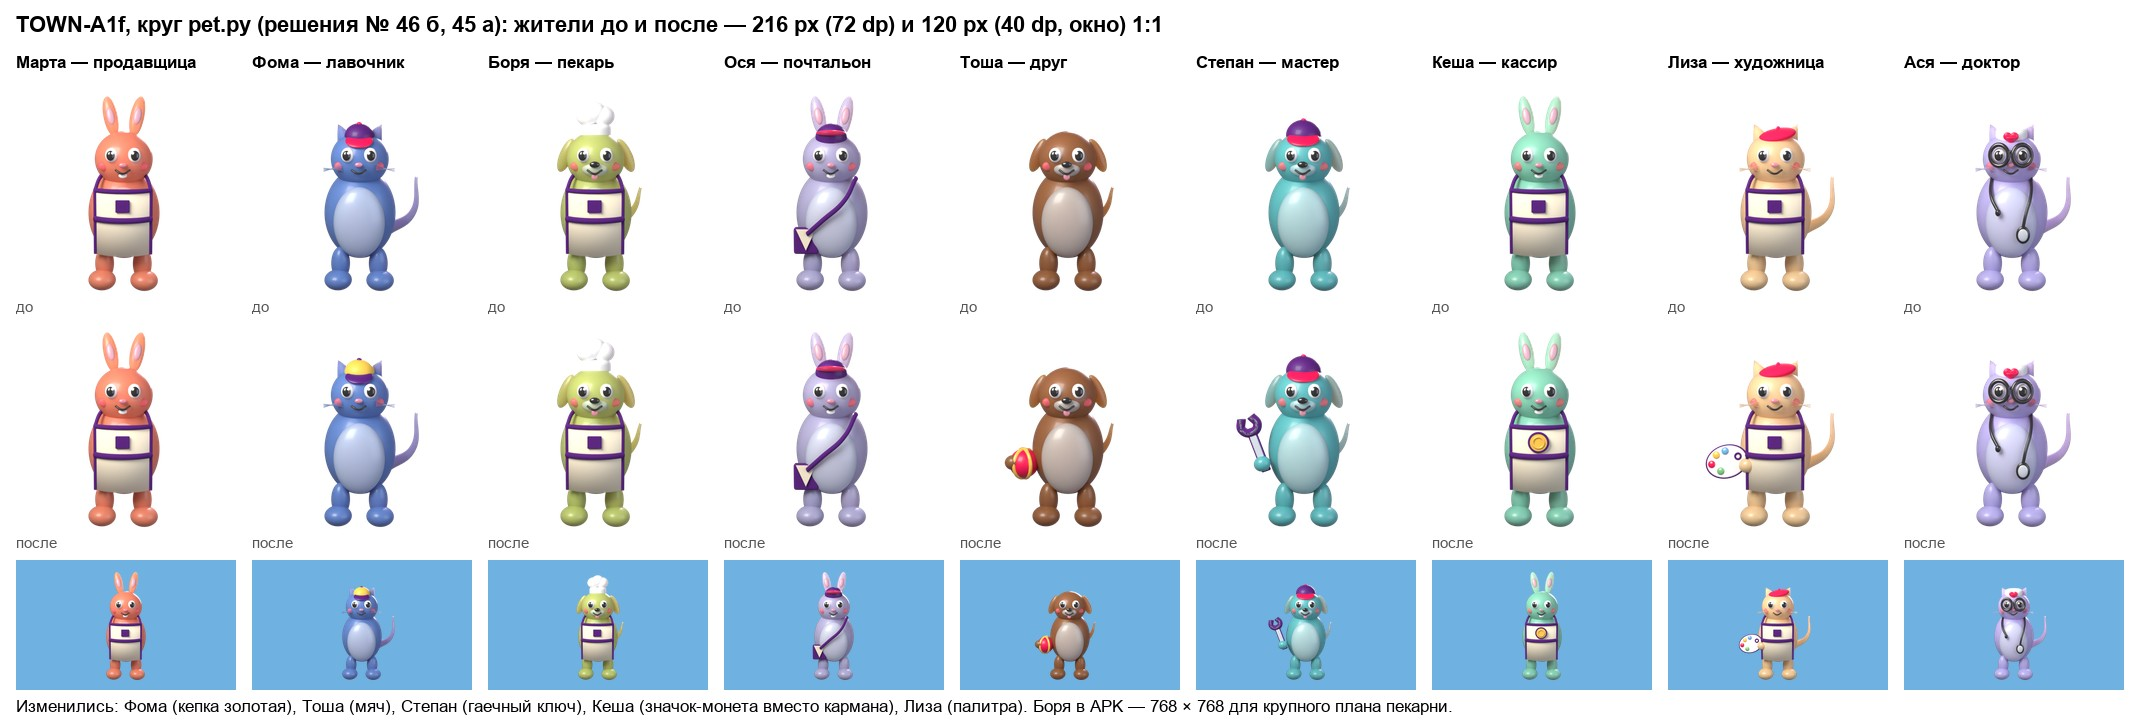
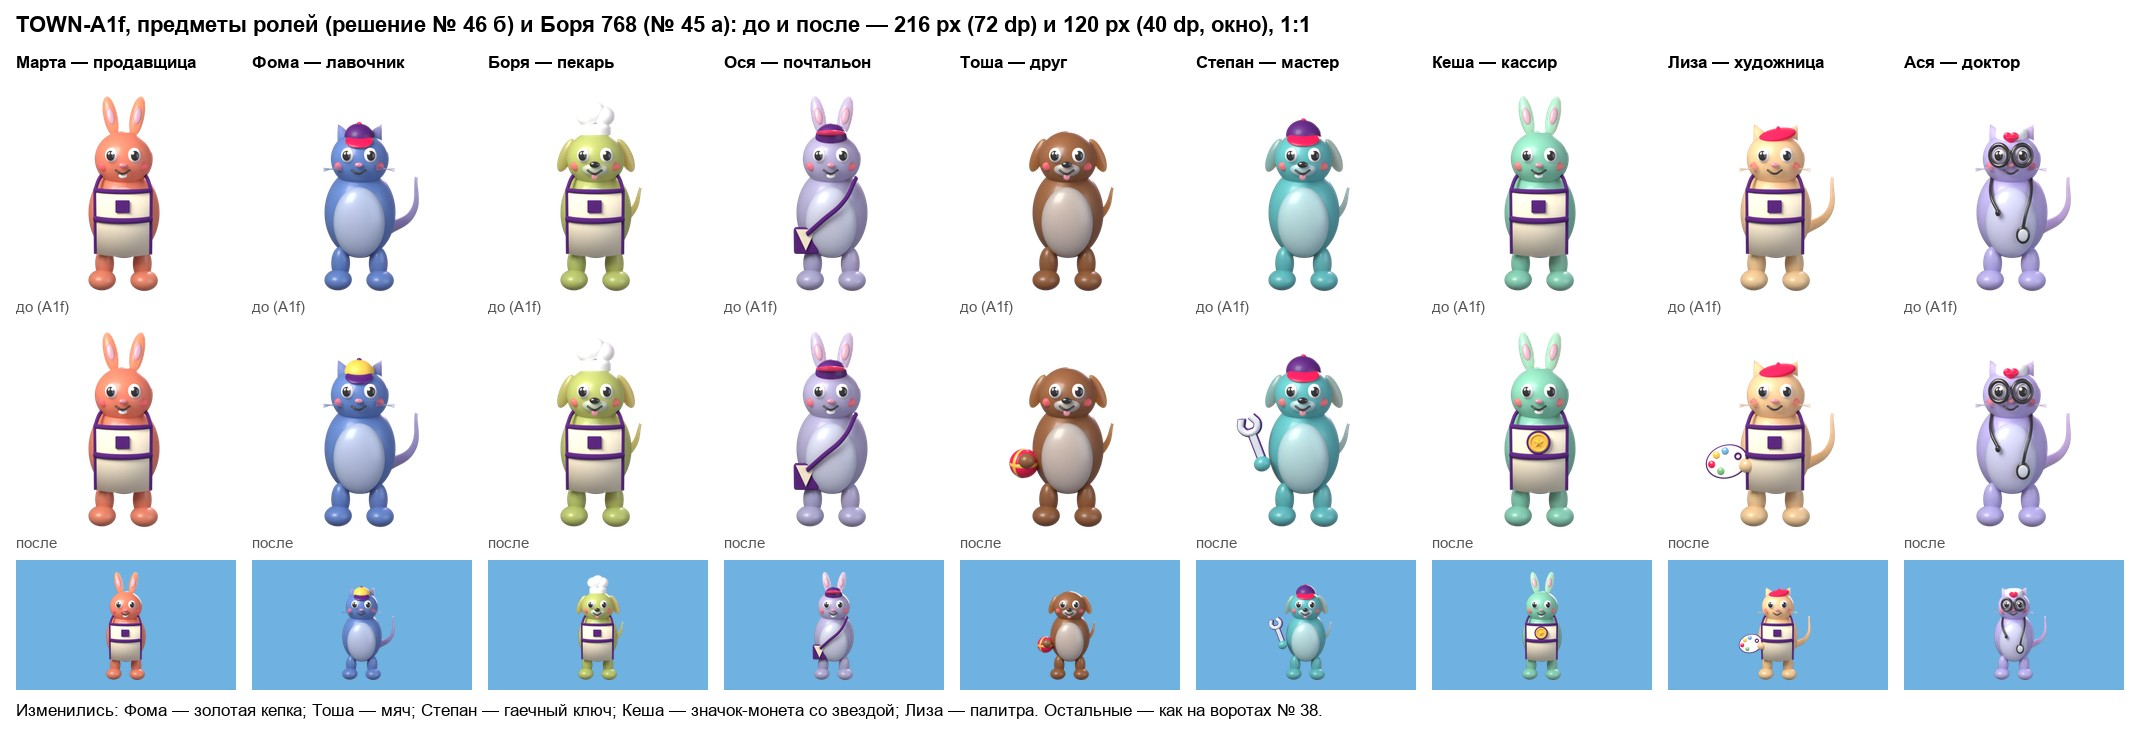
TOWN-A1f: ворота № 49 а (предметы ролей одобрены), № 50 а, № 51 а; итог кругов pet.py и S23; лист a1f_4_round после круга 2

diff --git a/docs/tasks/TOWN-A1.md b/docs/tasks/TOWN-A1.md
@@ -42,7 +42,7 @@ blender.exe`, не в PATH), Cycles видит HIP: AMD Radeon RX 9060 XT; Pillo
 | A1d | Комната: оболочка день/вечер (пол, стены, гирлянда, часы); режим камеры комнаты для спрайтов (`props.py --room` или своя функция на частях lib); спрайты: окно 112×80, полка с банками 152×72, холодильник 64×96, дверь 64×136, кровать 128×64, почтовый ящик 48×48, сундук 64×48; снять плашки `RoomScreen`; житель в окне крупнее (≈ 64 dp) и на подоконнике, подпись окна для TalkBack с пришедшим жителем («Окно: улица, пришла Ася»), строка «Почтальон принёс конверт» — с портретом Оси, а не питомца (судьи A1f S4, S5) | лист «Дом» до/после, недели 1 и 5; мишени ≥ 48 dp с `contentDescription`; `perf.sh`; прирост APK с остатком бюджета; LICENSES | — |
 | A1e | Вещи и товары: камерой комнаты (из A1d) 8 вещей — коврик, лампа-звёздочка, картина, робот, змей + перерендер мячика, книжки, домика — и 3 стартовых (лампа-оверлей, цветок, кресло); товарным ракурсом 5 товаров + «Ванна с пеной» и палатка-мечта; плакат «Супер-корм» (плакатик над товаром в витрине A1s); `itemRes`/`goalRes`; спрайты всех 23 товаров двух лавок (24 — с `lamp_new` мастерской) (на полке A1s нет названий — эмодзи ребёнок не узнает) | лист спрайтов; ни одного эмодзи у id из списка на снимках лавок, комнаты, «Обустроить»; рынок с событием Пк3 на 360 dp и S23; спрайт ≤ 37 КБ; прирост APK с остатком | — |
 | A1s | Лавка-витрина (решение 39, макеты `a1s_mock_*.jpg`): товары на досках прямо на фоне места, ценник на ниточке (монета, цена ≥ 16 sp, значок отдела — без плашек «Нужное»/«Хочу»), «Хочу» с новой полки; «У Фомы» страницами по 9 с кнопками «Ещё 9 ▶» / «◀ Назад» (без свайпа); касса-ценник вместо PayPanel (название, отдел, цена, питомец с «+N», монеты «есть / не хватает», варианты оплаты из `Town.quote`); реклама — плакатик над товаром события; продавец места на полу **крупно, виден на первом экране**, у Марты — ящики и облачко заказа (закрывает BACKLOG п. 13); доски и ценники — пластиковые спрайты генератора `shopprops.py`; чистая функция раскладки в `main/` — оракул test-author | ТЗ 2.5.6 (цена, категория, влияние до покупки); листы 360 × 640 и S23 при 1,0 и 1,3 (ничего не режется); мишени ≥ 48 dp; TalkBack — узел на товар «название, цена, отдел, влияние»; `perf.sh` на лавке; прирост APK | — |
-| A1f | Жители: 9 кадров `pet.py --residents` (цвета — `RESIDENT_COLORS`, решение владельца № 33 а), `ResidentPic` по `res_<id>` с запасным `PetSprites` | лист кадров (bbox ≥ 2 px от краёв); улица, окно (недели 1–5), заказ, итог смены; Лиза в срезе 1 нигде не видна — только лист; прирост APK с остатком | **сделано**, кроме S23 (п. 6 б — ждёт разблокировки телефона): 9 спрайтов `res_<id>` в APK (+123 897 Б, остаток бюджета эпика 796 959 Б), `ResidentPic` по `residentRes` (16 строк); эмулятор — 32 снимка, на каждом свой житель; судьи — 0 high/medium, «ребёнок» узнал пекаря, почтальона и доктора, кроме Тоши («питомец или житель?» — владельцу); плавность не хуже BASE — [TOWN-A1f.md](TOWN-A1f.md) |
+| A1f | Жители: 9 кадров `pet.py --residents` (цвета — `RESIDENT_COLORS`, решение владельца № 33 а), `ResidentPic` по `res_<id>` с запасным `PetSprites` | лист кадров (bbox ≥ 2 px от краёв); улица, окно (недели 1–5), заказ, итог смены; Лиза в срезе 1 нигде не видна — только лист; прирост APK с остатком | **сделано** (ворота № 49 а, 2026-09-28; повторное ревью — в работе): 9 спрайтов `res_<id>` в APK, Боря 768 (№ 45 а), предметы ролей двумя кругами `pet.py` (№ 46 б); `ResidentPic` по `residentRes`; APK +140 009 Б, остаток бюджета эпика 780 847 Б; эмулятор и S23 — свой житель на каждом снимке — [TOWN-A1f.md](TOWN-A1f.md) |
 | A1g | Улица: статичный фон и 7 фасадов (дом, рынок, лавка, пекарня, калитки парка, леса, зоопарка — забор + калитка, замок оверлеем), `StreetScreen` (карточка по зонам фасада из A1b), 🔒 → `ui_lock` | листы 360 dp и S23, 1,0 и 1,3, недели 1 и 5; `perf.sh` при прокрутке; прирост APK с остатком | — |
 | A1h | Закрытие: бомба Match3 → `tile_bomb`; судьба `room_land_*` (портрет закреплён); итог LICENSES; `perf.sh` по всем местам; доки | APK ≤ 4 081 493 Б + 1 МБ; пороги perf; греп по обоим `docs/` пуст: «плитки фона», «плитки в `LazyRow`», «3 жителя», «8 жителей», «калитки парка и леса», «Metal GPU», «конвертера в WebP в репозитории нет» | — |
 
